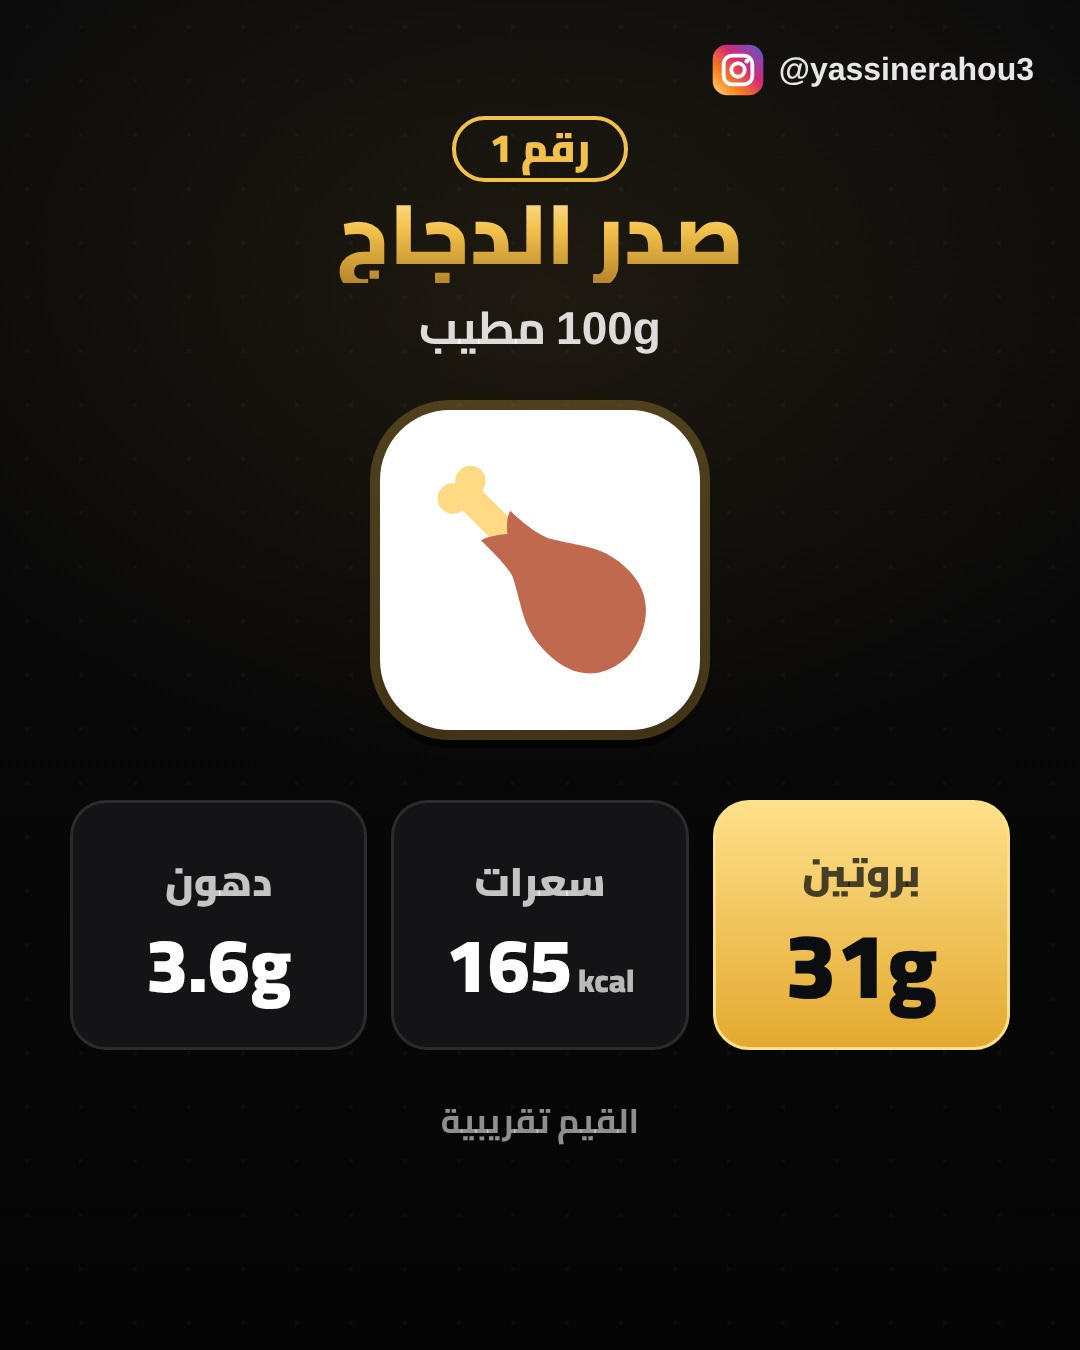
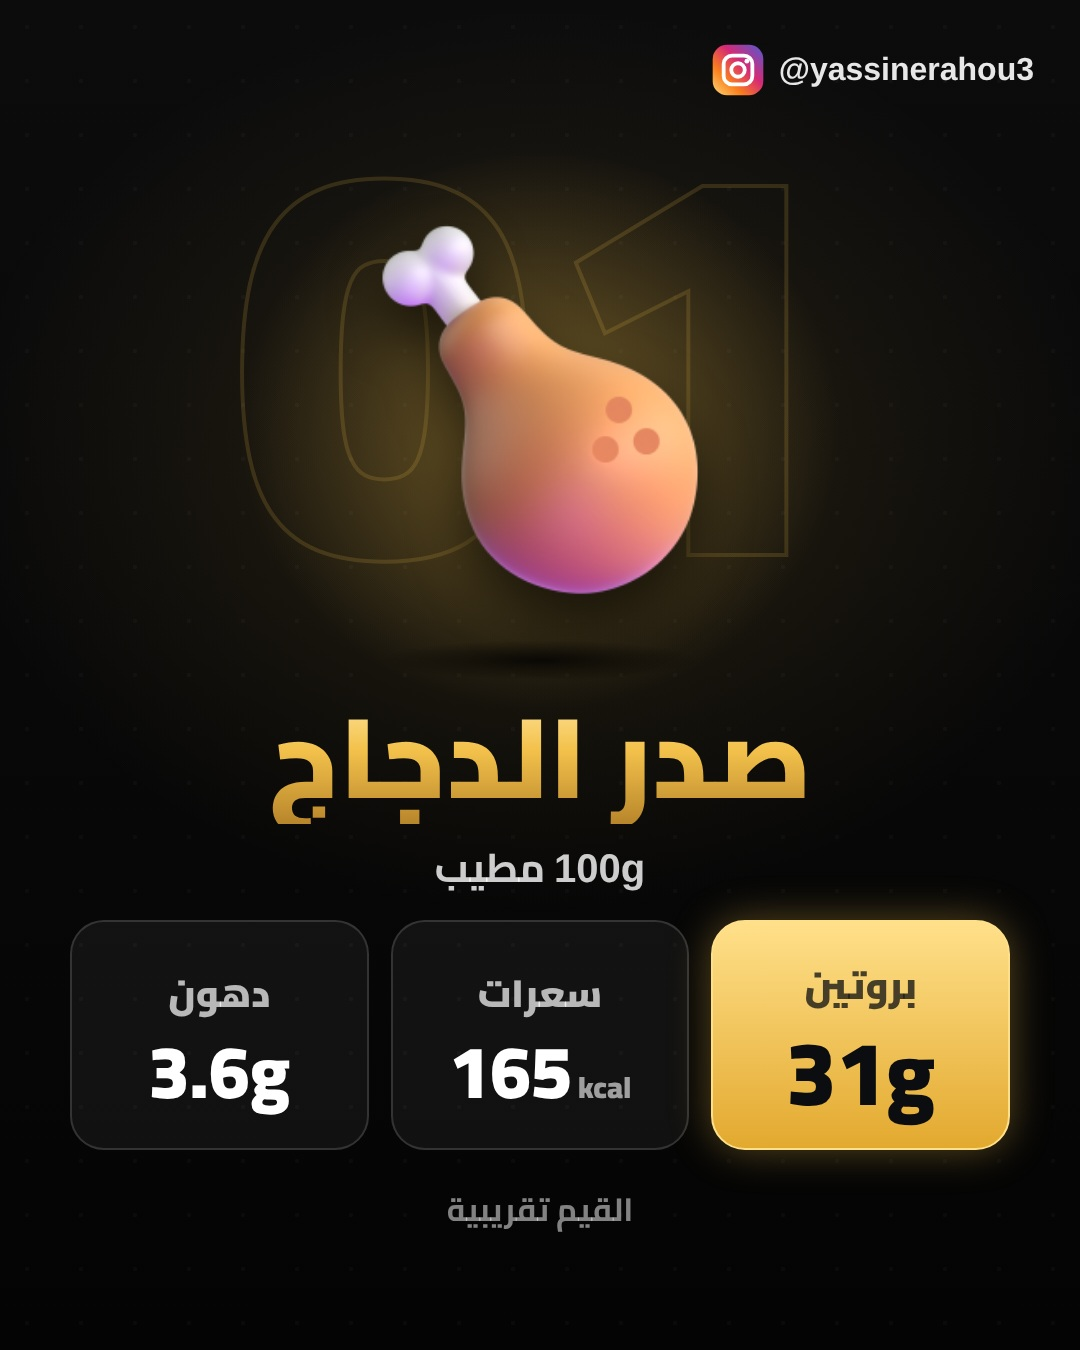
Protein carousel: pro design with 3D food images, title-only cover
Tuna can and sardines are edited from Fluent Emoji 3D (MIT).

Claude-Session: https://claude.ai/code/session_014GNevuJ6MBkHeS731WNJp8

diff --git a/creatine-clip/thumbnails/carousel.html b/creatine-clip/thumbnails/carousel.html
@@ -82,6 +82,29 @@
   .fnote { left: 0; width: 1080px; top: 1095px; text-align: center; font-size: 34px; line-height: 1.5; color: rgba(255,255,255,.55); font-weight: 700; }
   .ocard.tip { top: 330px; }
   .ocard.tip p { font-size: 54px; }
+  /* protein post — 'pro' look */
+  #stage.pro { background: radial-gradient(900px 700px at 50% 34%, rgba(243,193,75,.13), transparent 65%), linear-gradient(180deg, #0c0c0d 0%, #040404 100%); }
+  .pt1 { left: 0; width: 1080px; top: 400px; text-align: center; font-size: 104px; }
+  .pt2 { left: 0; width: 1080px; top: 540px; text-align: center; font-size: 230px; line-height: 1.2; filter: drop-shadow(0 12px 0 rgba(0,0,0,.6)); }
+  .ptline { left: 390px; top: 880px; width: 300px; height: 10px; border-radius: 5px; background: var(--gold); }
+  .bignum { left: 0; width: 1080px; top: 70px; text-align: center; font-size: 560px; line-height: 1; direction: ltr;
+            color: transparent; -webkit-text-stroke: 4px rgba(243,193,75,.16); }
+  .glow { left: 240px; top: 150px; width: 600px; height: 560px; border-radius: 50%; background: radial-gradient(closest-side, rgba(243,193,75,.38), rgba(243,193,75,0)); }
+  .fimg { left: 330px; top: 200px; width: 420px; height: 420px; display: flex; align-items: center; justify-content: center; }
+  .fimg img { width: 100%; height: 100%; object-fit: contain; filter: drop-shadow(0 26px 26px rgba(0,0,0,.6)); }
+  .fshadow { left: 380px; top: 640px; width: 320px; height: 40px; border-radius: 50%; background: radial-gradient(closest-side, rgba(0,0,0,.75), transparent); }
+  .fname2 { left: 0; width: 1080px; top: 690px; text-align: center; font-size: 112px; line-height: 1.2; }
+  .fserv2 { left: 0; width: 1080px; top: 830px; text-align: center; font-size: 40px; font-weight: 700; color: rgba(255,255,255,.8); }
+  .stats2 { left: 70px; width: 940px; top: 920px; display: flex; gap: 22px; }
+  .st2 { flex: 1; height: 230px; border-radius: 34px; background: rgba(255,255,255,.05); border: 2px solid rgba(255,255,255,.14);
+         display: flex; flex-direction: column; align-items: center; justify-content: center; gap: 2px; }
+  .st2 small { font-size: 38px; color: rgba(255,255,255,.7); }
+  .st2 b { font-size: 74px; line-height: 1.1; direction: ltr; white-space: nowrap; }
+  .st2 b i { font-style: normal; font-size: 30px; margin-left: 6px; color: rgba(255,255,255,.6); }
+  .st2.main { background: linear-gradient(180deg, #ffe08a, #e3a92f); border-color: #ffe08a; color: var(--ink); box-shadow: 0 0 40px rgba(243,193,75,.35); }
+  .st2.main small { color: rgba(11,13,16,.75); }
+  .st2.main b { font-size: 90px; }
+  .fnote2 { left: 0; width: 1080px; top: 1185px; text-align: center; font-size: 32px; line-height: 1.5; color: rgba(255,255,255,.5); font-weight: 700; }
   /* session slides (same look as the video day pages) */
   .dchip { left: 0; width: 1080px; top: 116px; display: flex; justify-content: center; }
   .dchip span { height: 66px; padding: 0 34px 6px; border-radius: 33px; border: 4px solid var(--gold); color: var(--gold); font-size: 40px; line-height: 56px; }
@@ -183,25 +206,28 @@ const CFG = {
 }[SET];
 // ---- protein post: values are approximate (USDA FoodData Central) ----
 const FOODS = [
-  { name: 'صدر الدجاج', icon: 'chicken', serving: '100g مطيب', p: '31g', kcal: '165', fat: '3.6g' },
-  { name: 'البيض', icon: 'egg', serving: 'بيضة وحدة كبيرة (50g تقريبا)', p: '6.3g', kcal: '72', fat: '4.8g' },
-  { name: 'الطون', icon: 'can', serving: '100g مصفي (طون فالما)', p: '26g', kcal: '116', fat: '0.8g', note: 'إلا كان فالزيت: 198 سعرة و 8g دهون' },
-  { name: 'اللحم', icon: 'meat', serving: '100g لحم بقري قليل الدهون، مطيب', p: '26g', kcal: '217', fat: '12g' },
-  { name: 'السردين', icon: 'fish', serving: '100g (حك فالزيت، مصفي)', p: '25g', kcal: '208', fat: '11g' },
+  { name: 'صدر الدجاج', img: 'chicken', serving: '100g مطيب', p: '31g', kcal: '165', fat: '3.6g' },
+  { name: 'البيض', img: 'egg', serving: 'بيضة وحدة كبيرة (50g تقريبا)', p: '6.3g', kcal: '72', fat: '4.8g' },
+  { name: 'الطون', img: 'tuna', serving: '100g مصفي (طون فالما)', p: '26g', kcal: '116', fat: '0.8g', note: 'إلا كان فالزيت: 198 سعرة و 8g دهون' },
+  { name: 'اللحم', img: 'meat', serving: '100g لحم بقري قليل الدهون، مطيب', p: '26g', kcal: '217', fat: '12g' },
+  { name: 'السردين', img: 'sardines', serving: '100g (حك فالزيت، مصفي)', p: '25g', kcal: '208', fat: '11g' },
 ];
 function renderProtein(slide) {
+  document.getElementById('stage').classList.add('pro');
   if (slide === 1) {
-    el('hook1 ph1', 'أفضل 5 مصادر');
-    el('hook2 ph2', '<span class="b goldtxt">البروتين</span>');
-    el('frame pframe', FOODS.map((f, i) => `<div class="prow"><div class="pn">${i + 1}</div><div class="pic"><img src="../icons/${f.icon}.svg"></div><div class="pnm">${f.name}</div></div>`).join(''));
+    el('pt1', 'أفضل 5 مصادر');
+    el('pt2 goldtxt', 'البروتين');
+    el('ptline', '');
   } else if (slide <= FOODS.length + 1) {
     const f = FOODS[slide - 2];
-    el('dchip', `<span>رقم ${slide - 1}</span>`);
-    el('ptitle goldtxt fname', f.name);
-    el('psub fserv', f.serving);
-    el('fcard', `<img src="../icons/${f.icon}.svg">`);
-    el('stats', `<div class="st main"><small>بروتين</small><b>${f.p}</b></div><div class="st"><small>سعرات</small><b>${f.kcal}<i>kcal</i></b></div><div class="st"><small>دهون</small><b>${f.fat}</b></div>`);
-    el('fnote', (f.note ? f.note + '<br>' : '') + 'القيم تقريبية');
+    el('bignum', String(slide - 1).padStart(2, '0'));
+    el('glow', '');
+    el('fimg', `<img src="../food3d/${f.img}.png">`);
+    el('fshadow', '');
+    el('fname2 goldtxt', f.name);
+    el('fserv2', f.serving);
+    el('stats2', `<div class="st2 main"><small>بروتين</small><b>${f.p}</b></div><div class="st2"><small>سعرات</small><b>${f.kcal}<i>kcal</i></b></div><div class="st2"><small>دهون</small><b>${f.fat}</b></div>`);
+    el('fnote2', (f.note ? f.note + '<br>' : '') + 'القيم تقريبية');
   } else {
     el('otitle goldtxt high', 'نصيحة');
     el('ocard wrap tip', `<p><span class="g">البروتين</span> من بين أهم العناصر الغذائية لبناء العضلات.</p><p>ختار داك الشي اللي عندك.</p>`);
